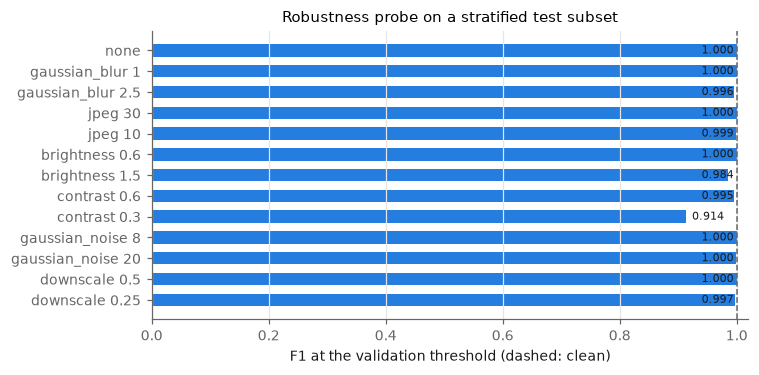
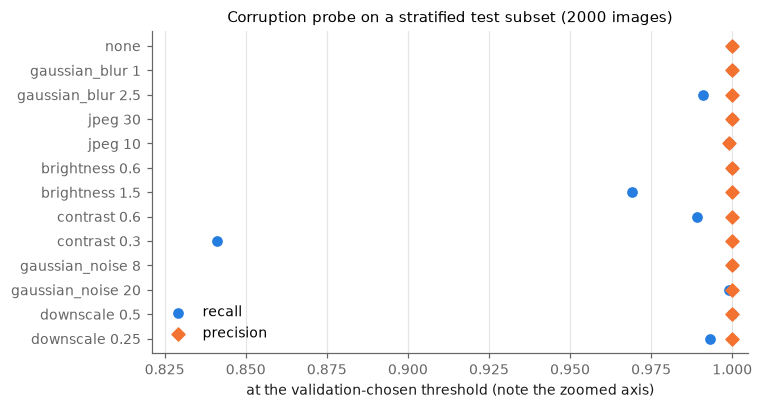
fix(cracks): clearer robustness and reliability figures

diff --git a/src/baulens/cracks/figures.py b/src/baulens/cracks/figures.py
@@ -162,8 +162,15 @@ def reliability(result: Calibration, paths: Sequence[Path], title: str) -> None:
         color=SERIES[0],
         marker="o",
         markersize=5,
-        label="model",
+        label="model (labels: images per bin)",
     )
+    counts = [
+        n for n, c in zip(result.counts, result.mean_confidence, strict=True) if c is not None
+    ]
+    for (x, y), count in zip(points, counts, strict=True):
+        ax.annotate(
+            str(count), (x, y), textcoords="offset points", xytext=(4, -10), fontsize=7, color=MUTED
+        )
     ax.set(
         xlabel="mean predicted P(crack)",
         ylabel="observed crack fraction",
@@ -171,7 +178,7 @@ def reliability(result: Calibration, paths: Sequence[Path], title: str) -> None:
         xlim=(0, 1),
         ylim=(0, 1),
     )
-    ax.legend(loc="upper left")
+    ax.legend(loc="upper center", bbox_to_anchor=(0.5, -0.17), ncol=2, fontsize=8)
     save(figure, paths)
 
 
@@ -197,28 +204,30 @@ def gallery(
 
 
 def robustness(rows: Sequence[dict[str, Any]], paths: Sequence[Path]) -> None:
+    """Dot plot of recall and precision per corruption (zoomed axis; dots, not bars)."""
     frame = pd.DataFrame(rows)
-    figure, ax = plt.subplots(figsize=(7, 3.4))
+    figure, ax = plt.subplots(figsize=(7, 3.8))
     positions = np.arange(len(frame))
-    ax.barh(positions, frame["f1"], color=SERIES[0], height=0.6)
-    clean = frame.loc[frame["corruption"] == "none", "f1"]
-    if len(clean):
-        ax.axvline(float(clean.iloc[0]), color=MUTED, linewidth=1, linestyle="--")
+    ax.scatter(frame["recall"], positions, color=SERIES[0], s=36, label="recall", zorder=3)
+    ax.scatter(
+        frame["precision"],
+        positions,
+        color=SERIES[1],
+        s=36,
+        marker="D",
+        label="precision",
+        zorder=3,
+    )
     ax.set_yticks(positions, frame["corruption"])
     ax.invert_yaxis()
-    ax.set_xlim(0, 1.02)
-    ax.set_xlabel("F1 at the validation threshold (dashed: clean)")
-    ax.set_title("Robustness probe on a stratified test subset")
-    for position, value in zip(positions, frame["f1"], strict=True):
-        ax.text(
-            min(value + 0.01, 0.94),
-            float(position),
-            f"{value:.3f}",
-            va="center",
-            fontsize=7.5,
-            color=TEXT,
-        )
+    low = float(min(frame["recall"].min(), frame["precision"].min()))
+    ax.set_xlim(min(0.95, low - 0.02), 1.005)
+    ax.set_xlabel("at the validation-chosen threshold (note the zoomed axis)")
+    ax.set_title(
+        f"Corruption probe on a stratified test subset ({int(frame['images'].iloc[0])} images)"
+    )
     ax.grid(axis="y", visible=False)
+    ax.legend(loc="lower left")
     save(figure, paths)
 
 
